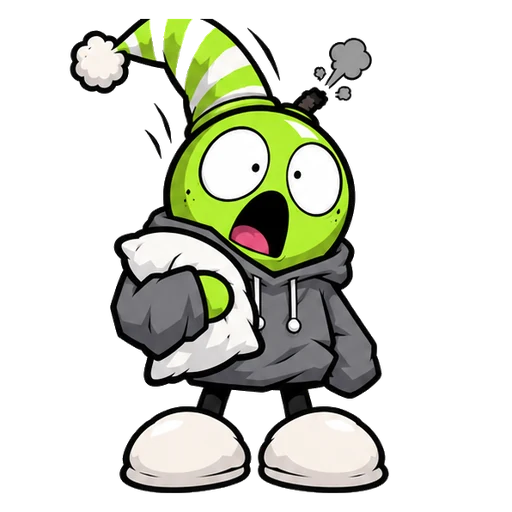
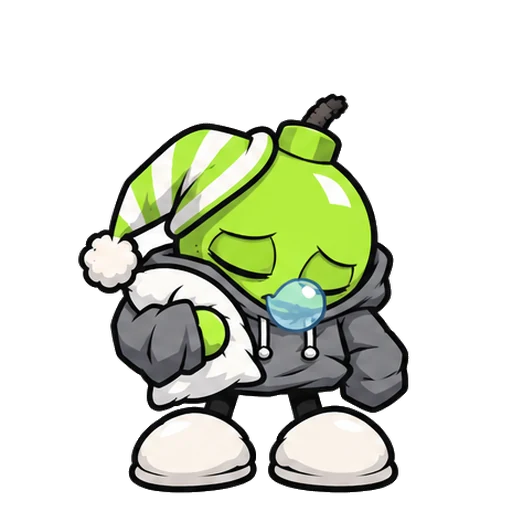
feat: DUD + LEXI idles repainted at 6 frames

diff --git a/src/cast/cast.js b/src/cast/cast.js
@@ -381,9 +381,11 @@ export const CAST_FRAMES = {
   // MECHA: ready → red scan line, antenna pinging → ROCKET PUNCH → steam vents, thumbs up ^ ^
   mecha: { n: 4, seq: [[1, 750], [0, 180], [2, 720], [3, 1150]], rest: 1800 },
   // DUD: asleep → snot bubble swells → POP, jolts awake → giant yawn
-  dud: { n: 4, seq: [[1, 900], [2, 650], [3, 1200]], rest: 2400 },
+  // 6 frames: asleep → head droops, bubble swells → POP, jolts awake → giant yawn → snuggles back down
+  dud: { n: 6, seq: [[1, 520], [2, 800], [3, 520], [4, 720], [5, 600]], rest: 2200 },
   // LEXI: finger raised → pushes the glasses up, *glint* → book open, lecturing → hugs the book, smug
-  lexi: { n: 4, seq: [[1, 600], [2, 1000], [3, 1000]], rest: 2000 },
+  // 6 frames: finger up → to the glasses → push up, *glint* → book swung open → taps the page, lecturing → hugs it, smug
+  lexi: { n: 6, seq: [[1, 260], [2, 620], [3, 420], [4, 780], [5, 1000]], rest: 1900 },
   // SHH: finger to lips → the invisible wall → the invisible rope → a smug bow
   shh: { n: 4, seq: [[1, 800], [2, 380], [0, 120], [2, 380], [3, 1100]], rest: 2000 },
   // SIZZLE: thumbs up → a big swig → breathes FIRE, hat flies → sweating, still grinning
